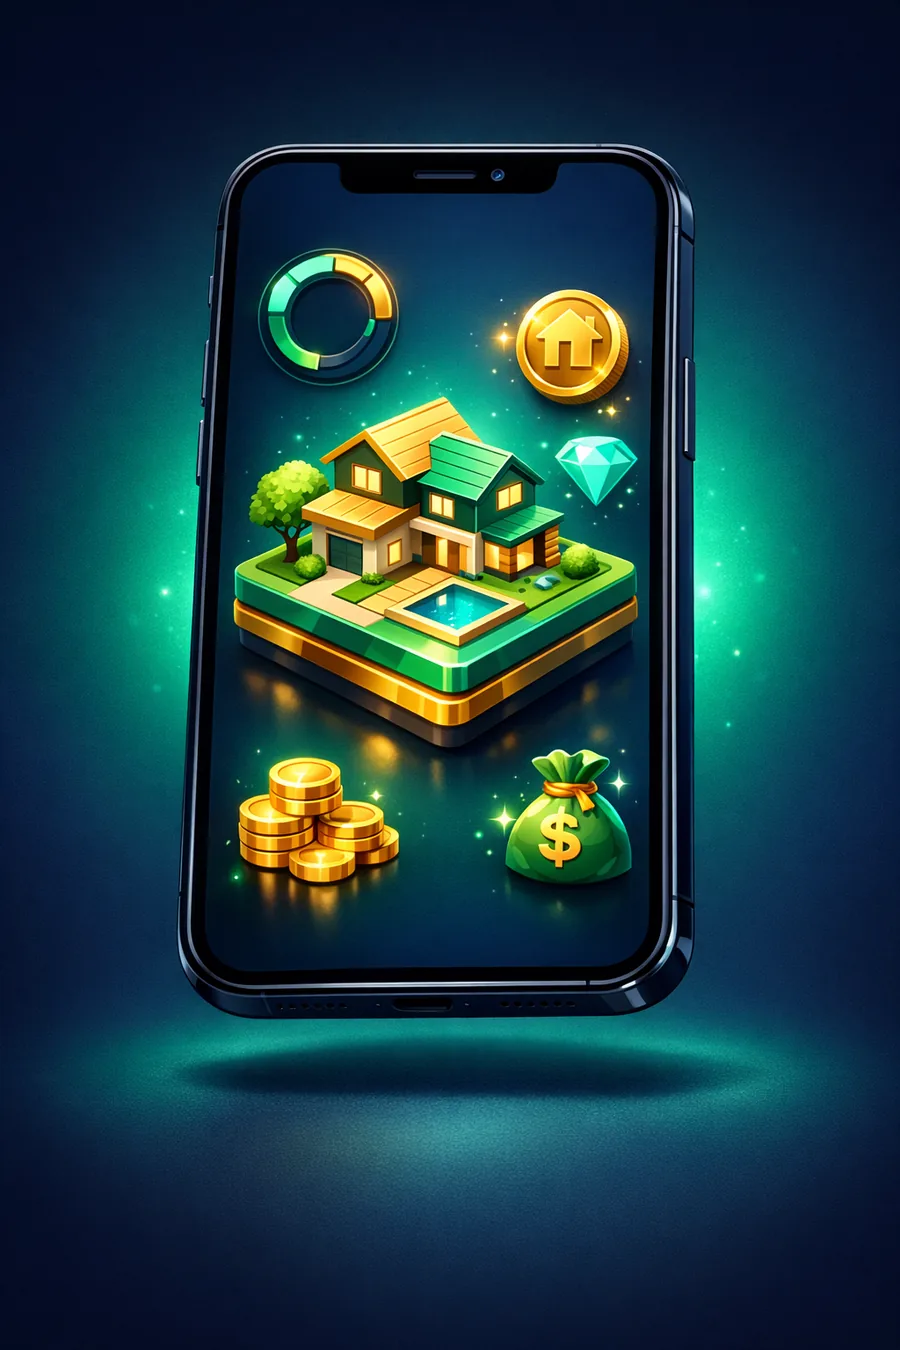
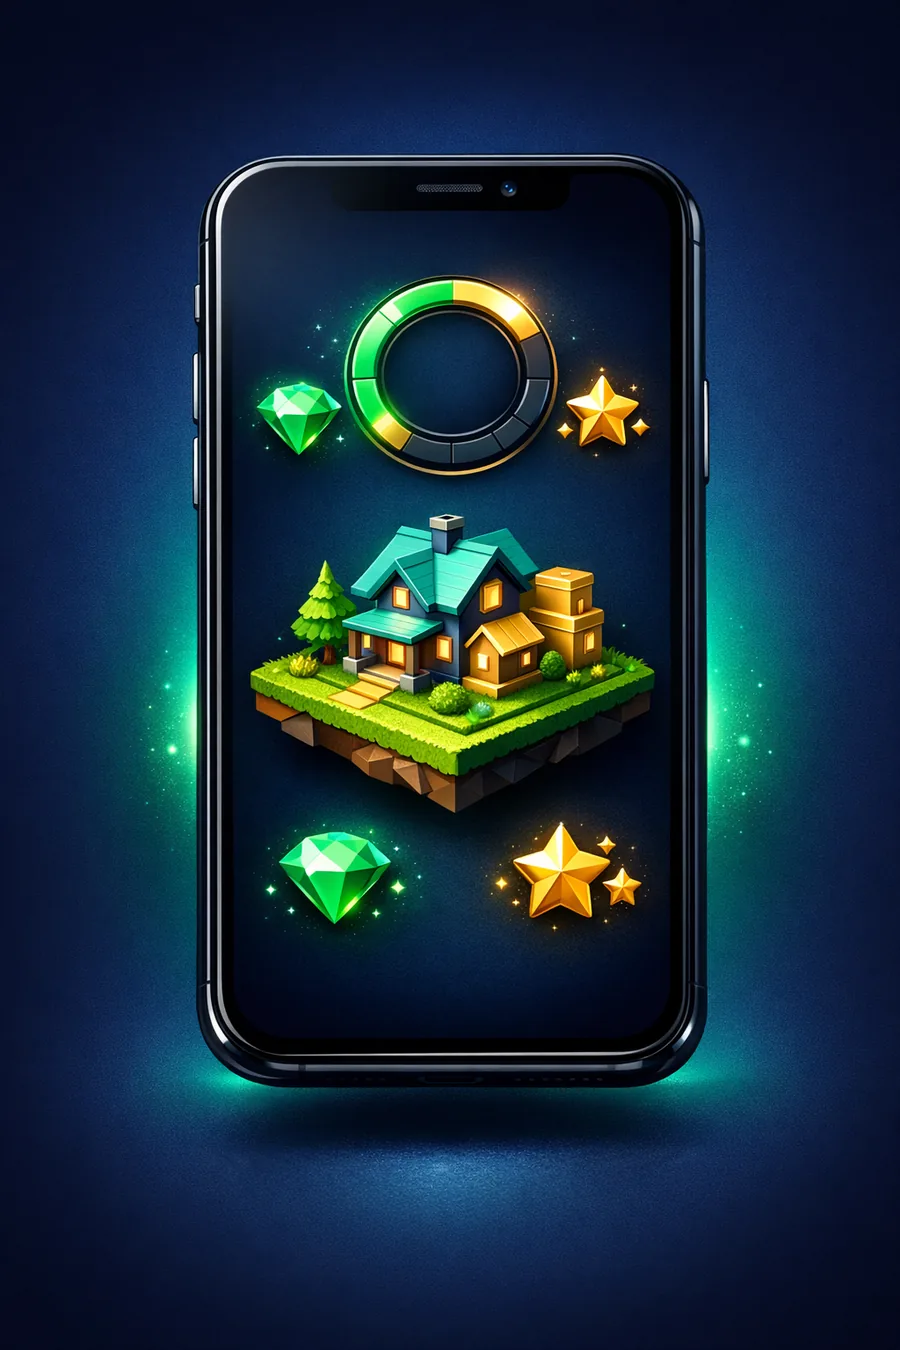
Regenerate House Hackers product image without money imagery (compliance); remove now-unneeded thumbnail focus override

diff --git a/src/lib/products.ts b/src/lib/products.ts
@@ -168,11 +168,6 @@ export const PRODUCTS: Product[] = [
     tags: ["Earn COVI", "Learn-to-earn"],
     icon: "gamepad",
     image: "/products/house-hackers.webp",
-    // The lower third of this render is a money bag and coin piles. A centred crop
-    // put that directly above the "Earn COVI" tag, which reads as a promise of
-    // financial return — the one thing this product's copy explicitly disclaims.
-    // Aim the thumbnail at the house and progress dial instead.
-    imageFocus: "center 34%",
     shortDescription:
       "A learn-to-earn game that teaches real-estate and readiness concepts through play. Progress engages game mechanics — no promise of return.",
     longDescription:
